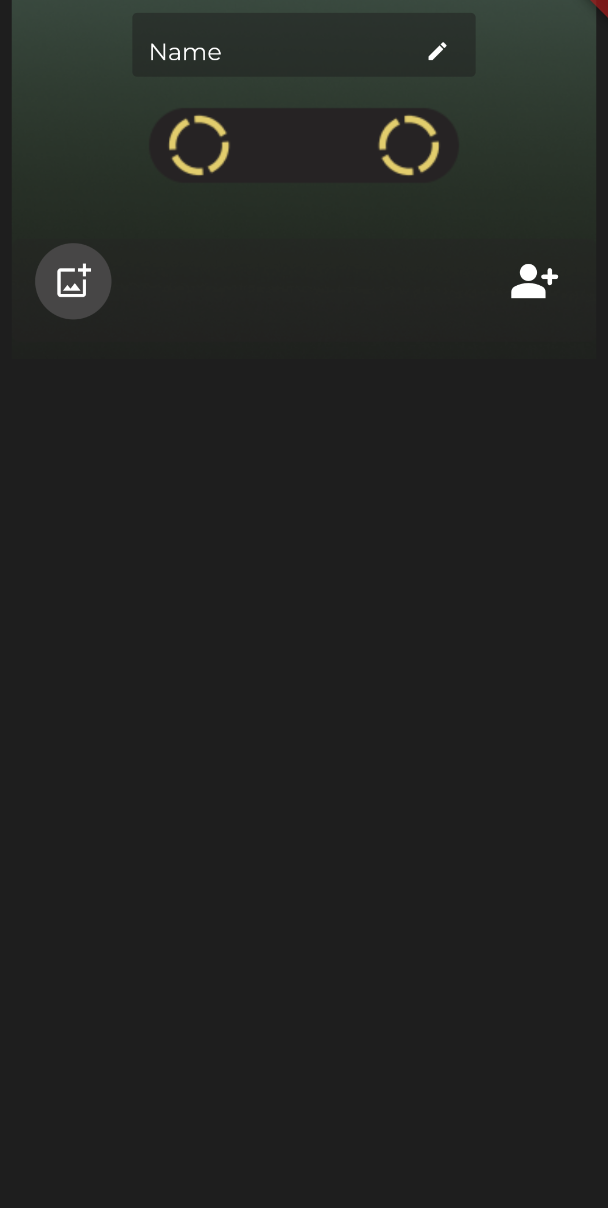
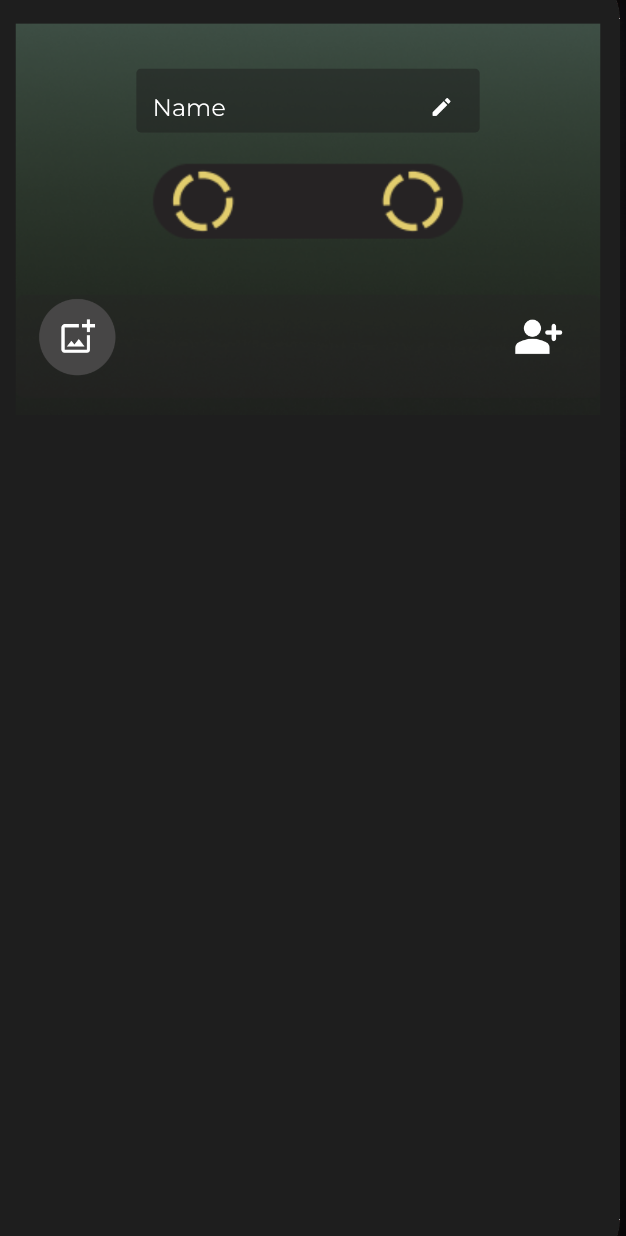
added photos for playlist / mixtape tutorial

Changed region(s): [[0.0, 0.0, 1.0, 0.1838], [0.0625, 0.1838, 0.1875, 0.3063], [0.8125, 0.2144, 0.9062, 0.3063]]

diff --git a/lib/screens/playlist_creation.dart b/lib/screens/playlist_creation.dart
@@ -148,152 +148,155 @@ class _PlaylistCreationScreenState extends State<PlaylistCreationScreen> {
             width: screenWidth,
             height: screenHeight,
             color: MixTapeColors.black,
-            child: Column(
-              mainAxisAlignment: MainAxisAlignment.spaceBetween,
-              children: [
-                Stack(
-                  children: [
-                    Padding(
-                      padding: EdgeInsets.fromLTRB(5, 20, 5, screenHeight * .2),
-                      child: Image.asset(
-                        'assets/mixtape_image.png',
-                        scale: 1.02,
+            child: Padding(
+              padding: EdgeInsets.fromLTRB(0, 20, 0, 0),
+              child: Column(
+                mainAxisAlignment: MainAxisAlignment.spaceBetween,
+                children: [
+                  Stack(
+                    children: [
+                      Padding(
+                        padding: EdgeInsets.fromLTRB(5, 20, 5, screenHeight * .2),
+                        child: Image.asset(
+                          'assets/mixtape_image.png',
+                          scale: 1.02,
+                        ),
                       ),
-                    ),
-                    Positioned(
-                      left: 0,
-                      right: 0,
-                      top: screenHeight * .06,
-                      // Adjust the top position as needed
-                      child: Center(
-                        child: Container(
-                          height: screenHeight * .05, // Set
-                          width: screenWidth * .55,
-                          decoration: BoxDecoration(
-                            color: MixTapeColors.black.withOpacity(.5),
-                            // Set the background color to gray
-                            borderRadius: BorderRadius.circular(
-                                3), // Add rounded corners
-                          ),
-                          child: SingleChildScrollView(
-                            child: TextField(
-                              controller: _textController,
-                              textAlign: TextAlign.start,
-                              style: TextStyle(
-                                fontFamily: "Montserrat",
-                                fontSize: textScaleFactor * 15,
-                                fontWeight: FontWeight.w500,
-                                color: Colors.white,
-                              ),
-                              decoration: InputDecoration(
-                                contentPadding: EdgeInsets.fromLTRB(
-                                    10, 15, 0, 0),
-                                border: InputBorder.none,
-                                focusColor: Colors.white,
-                                hintText: "Name",
-                                hintStyle: TextStyle(
-                                  fontFamily: 'Montserrat',
+                      Positioned(
+                        left: 0,
+                        right: 0,
+                        top: screenHeight * .06,
+                        // Adjust the top position as needed
+                        child: Center(
+                          child: Container(
+                            height: screenHeight * .05, // Set
+                            width: screenWidth * .55,
+                            decoration: BoxDecoration(
+                              color: MixTapeColors.black.withOpacity(.5),
+                              // Set the background color to gray
+                              borderRadius: BorderRadius.circular(
+                                  3), // Add rounded corners
+                            ),
+                            child: SingleChildScrollView(
+                              child: TextField(
+                                controller: _textController,
+                                textAlign: TextAlign.start,
+                                style: TextStyle(
+                                  fontFamily: "Montserrat",
                                   fontSize: textScaleFactor * 15,
                                   fontWeight: FontWeight.w500,
                                   color: Colors.white,
                                 ),
-                                suffixIcon: Icon(
-                                  Icons.create_rounded,
-                                  color: Colors.white,
-                                  size: 15,
-                                ), // The trailing icon
+                                decoration: InputDecoration(
+                                  contentPadding: EdgeInsets.fromLTRB(
+                                      10, 15, 0, 0),
+                                  border: InputBorder.none,
+                                  focusColor: Colors.white,
+                                  hintText: "Name",
+                                  hintStyle: TextStyle(
+                                    fontFamily: 'Montserrat',
+                                    fontSize: textScaleFactor * 15,
+                                    fontWeight: FontWeight.w500,
+                                    color: Colors.white,
+                                  ),
+                                  suffixIcon: Icon(
+                                    Icons.create_rounded,
+                                    color: Colors.white,
+                                    size: 15,
+                                  ), // The trailing icon
+                                ),
                               ),
                             ),
                           ),
                         ),
                       ),
-                    ),
-                    Positioned(
-                        left: 0,
-                        right: 0,
-                        top: screenHeight * .24,
-                        child: Row(
-                          mainAxisAlignment: MainAxisAlignment.spaceBetween,
-                          children: [
-                            Flexible(
-                              child: Padding(
-                                padding: EdgeInsets.fromLTRB(
-                                    screenWidth * .05, 0, 0, 0),
-                                child: Container(
-                                  decoration: ShapeDecoration(
-                                    color: MixTapeColors.light_gray,
-                                    shape: CircleBorder(),
+                      Positioned(
+                          left: 0,
+                          right: 0,
+                          top: screenHeight * .24,
+                          child: Row(
+                            mainAxisAlignment: MainAxisAlignment.spaceBetween,
+                            children: [
+                              Flexible(
+                                child: Padding(
+                                  padding: EdgeInsets.fromLTRB(
+                                      screenWidth * .05, 0, 0, 0),
+                                  child: Container(
+                                    decoration: ShapeDecoration(
+                                      color: MixTapeColors.light_gray,
+                                      shape: CircleBorder(),
+                                    ),
+                                    child: IconButton(
+                                      icon: Icon(
+                                          Icons.add_photo_alternate_outlined),
+                                      color: Colors.white,
+                                      onPressed: () {
+                                        openImageUploadDialog(context);
+                                      },
+                                    ),
                                   ),
+                                ),
+                              ),
+
+                              Flexible(
+                                child: Padding(
+                                  padding: EdgeInsets.fromLTRB(
+                                      0, 0, screenWidth * .05, 0),
                                   child: IconButton(
                                     icon: Icon(
-                                        Icons.add_photo_alternate_outlined),
+                                      Icons.person_add_alt_rounded,
+                                      size: screenHeight * .04,
+                                    ),
                                     color: Colors.white,
                                     onPressed: () {
-                                      openImageUploadDialog(context);
+                                      print("do you have friends");
+                                      openPlaylistInvitationDialog(
+                                          context, userFriends);
                                     },
                                   ),
                                 ),
                               ),
-                            ),
-
-                            Flexible(
-                              child: Padding(
-                                padding: EdgeInsets.fromLTRB(
-                                    0, 0, screenWidth * .05, 0),
-                                child: IconButton(
-                                  icon: Icon(
-                                    Icons.person_add_alt_rounded,
-                                    size: screenHeight * .04,
-                                  ),
-                                  color: Colors.white,
-                                  onPressed: () {
-                                    print("do you have friends");
-                                    openPlaylistInvitationDialog(
-                                        context, userFriends);
-                                  },
-                                ),
-                              ),
-                            ),
-                          ],
-                        )
-                    ),
-                  ],
-                ),
-
-                playlistTargetName.isNotEmpty ? Padding(
-                  padding: EdgeInsets.fromLTRB(0, 0, 0, screenHeight * 0.05),
-                  child: FittedBox(
-                    fit: BoxFit.scaleDown,
-                    // This will scale the child down if it overflows
-                    child: FloatingActionButton.extended(
-                      shape: RoundedRectangleBorder(
-                        borderRadius: BorderRadius.circular(15),
+                            ],
+                          )
                       ),
-                      heroTag: "playlist_invitation",
-                      onPressed: () async {
-                        print("send invitation");
-                        openPlaylistInvitationSentDialog(context);
-                        playlistName = _textController.text;
-                        playlistTargetProfile = getFriend(playlistTargetName)!;
-                        newPlaylist = CreatePlaylistDTO(playlistName, "", "", playlistTargetProfile.id);
-                        createPlaylist(newPlaylist);
-                      },
-                      label: Padding(
-                        padding: EdgeInsets.all(5.0),
-                        child: Text(
-                          'Invite $playlistTargetName',
-                          style: TextStyle(
-                            fontSize: textScaleFactor * 20,
-                            fontFamily: "Montserrat",
-                            fontWeight: FontWeight.w600,
+                    ],
+                  ),
+
+                  playlistTargetName.isNotEmpty ? Padding(
+                    padding: EdgeInsets.fromLTRB(0, 0, 0, screenHeight * 0.05),
+                    child: FittedBox(
+                      fit: BoxFit.scaleDown,
+                      // This will scale the child down if it overflows
+                      child: FloatingActionButton.extended(
+                        shape: RoundedRectangleBorder(
+                          borderRadius: BorderRadius.circular(15),
+                        ),
+                        heroTag: "playlist_invitation",
+                        onPressed: () async {
+                          print("send invitation");
+                          openPlaylistInvitationSentDialog(context);
+                          playlistName = _textController.text;
+                          playlistTargetProfile = getFriend(playlistTargetName)!;
+                          newPlaylist = CreatePlaylistDTO(playlistName, "", "", playlistTargetProfile.id);
+                          createPlaylist(newPlaylist);
+                        },
+                        label: Padding(
+                          padding: EdgeInsets.all(5.0),
+                          child: Text(
+                            'Invite $playlistTargetName',
+                            style: TextStyle(
+                              fontSize: textScaleFactor * 20,
+                              fontFamily: "Montserrat",
+                              fontWeight: FontWeight.w600,
+                            ),
                           ),
                         ),
+                        backgroundColor: MixTapeColors.green,
                       ),
-                      backgroundColor: MixTapeColors.green,
                     ),
-                  ),
-                ) : Container(),
-              ],
+                  ) : Container(),
+                ],
+              ),
             ),
           ),
         );

diff --git a/lib/tour_targets/nav_bar_tour_target.dart b/lib/tour_targets/nav_bar_tour_target.dart
@@ -22,7 +22,7 @@ List<TargetFocus> addNavBarTourTargets({
       paddingFocus: 1,
       contents: [
         TargetContent(
-          padding: EdgeInsets.fromLTRB(0, 0, 0, screenHeight * .2),
+          padding: EdgeInsets.fromLTRB(0, 0, 0, screenHeight * .15),
           align: ContentAlign.top,
           builder: (context, controller) => Container(
             alignment: Alignment.center,
@@ -32,9 +32,6 @@ List<TargetFocus> addNavBarTourTargets({
                 mainAxisAlignment: MainAxisAlignment.center,
                 crossAxisAlignment: CrossAxisAlignment.center,
                 children: [
-                  SizedBox(
-                    height: screenHeight * .045,
-                  ),
                   Text(
                     'Friends',
                     textAlign: TextAlign.center,
@@ -46,7 +43,7 @@ List<TargetFocus> addNavBarTourTargets({
                     ),
                   ),
                   Text(
-                    'This is the friends page. View a list of your friends, or search for your friends to start making collaborative playlists ! They must have a MixTape account',
+                    'This is the friends page. View a list of your friends, or search for your friends to start making collaborative playlists! They must have a MixTape account',
                     textAlign: TextAlign.center,
                     style: TextStyle(
                       fontFamily: 'Montserrat',
@@ -61,7 +58,7 @@ List<TargetFocus> addNavBarTourTargets({
                     borderRadius: BorderRadius.circular(5),
                     child: Image.asset(
                       'assets/friends_page.png',
-                      height: screenHeight * .45,
+                      height: screenHeight * .5,
                       fit: BoxFit.cover,
                     ),
                   ),
@@ -84,7 +81,7 @@ List<TargetFocus> addNavBarTourTargets({
       paddingFocus: 1,
       contents: [
         TargetContent(
-            padding: EdgeInsets.fromLTRB(0, 0, 0, screenHeight * .2),
+            padding: EdgeInsets.fromLTRB(0, 0, 0, screenHeight * .15),
             align: ContentAlign.top,
             builder: (context, controller) => Container(
               alignment: Alignment.center,
@@ -108,7 +105,7 @@ List<TargetFocus> addNavBarTourTargets({
                       ),
                     ),
                     Text(
-                      'This is the profile page. Your MixTape account is linked to your Spotify account'
+                      'This is the profile page. Your MixTape account is linked to your Spotify account.\n'
                       'You will be able to add a collection of songs from playlist MixTapes to your queue.',
                       textAlign: TextAlign.center,
                       style: TextStyle(
@@ -124,7 +121,7 @@ List<TargetFocus> addNavBarTourTargets({
                       borderRadius: BorderRadius.circular(5),
                       child: Image.asset(
                         'assets/profile_page.png',
-                        height: screenHeight * .45,
+                        height: screenHeight * .5,
                         fit: BoxFit.cover,
                       ),
                     ),

diff --git a/lib/main.dart b/lib/main.dart
@@ -9,6 +9,7 @@ void main() async {
     ServicesProvider(
       services: services,
       child: MaterialApp(
+        debugShowCheckedModeBanner: false,
         initialRoute: '/home', // Specify the initial route
         routes: {
           '/home': (context) => LoginPage(), // Define the home screen
@@ -26,6 +27,7 @@ class MyApp extends StatelessWidget {
   @override
   Widget build(BuildContext context) {
     return MaterialApp(
+      debugShowCheckedModeBanner: false,
       title: 'Mixtape',
       theme: ThemeData(
         // This is the theme of your application.
